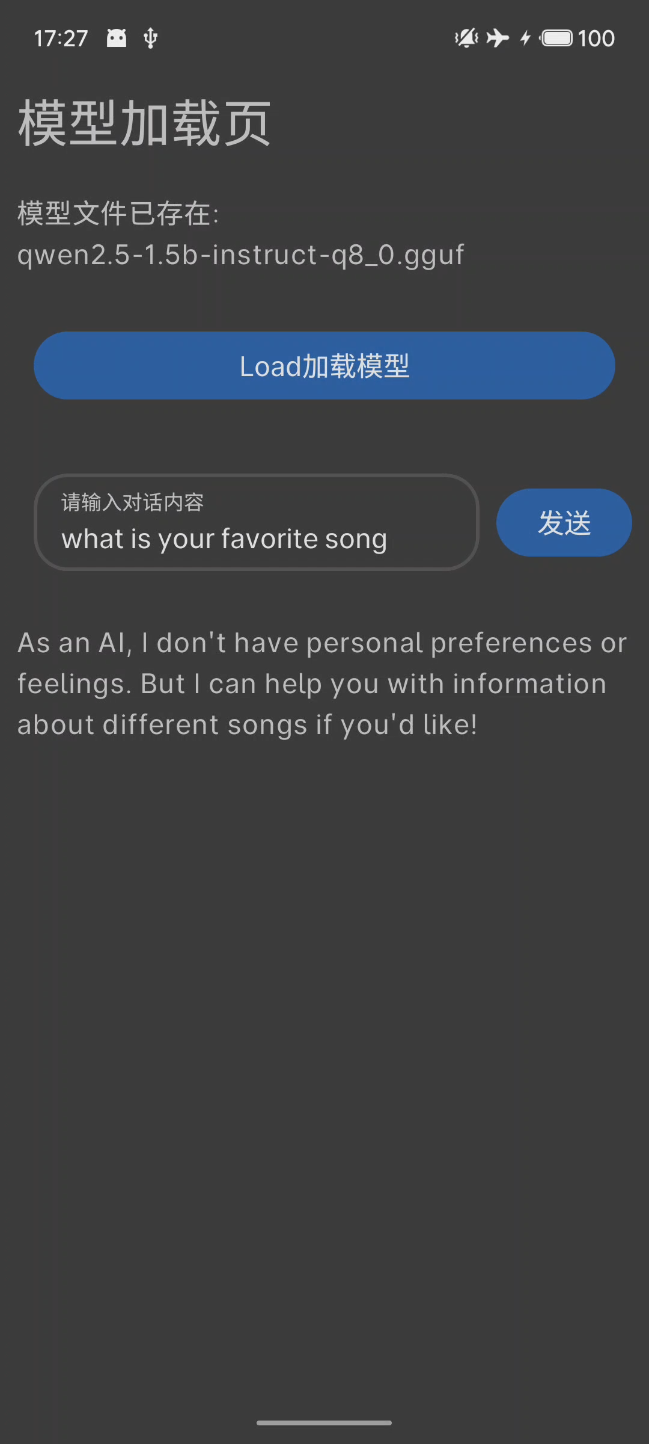
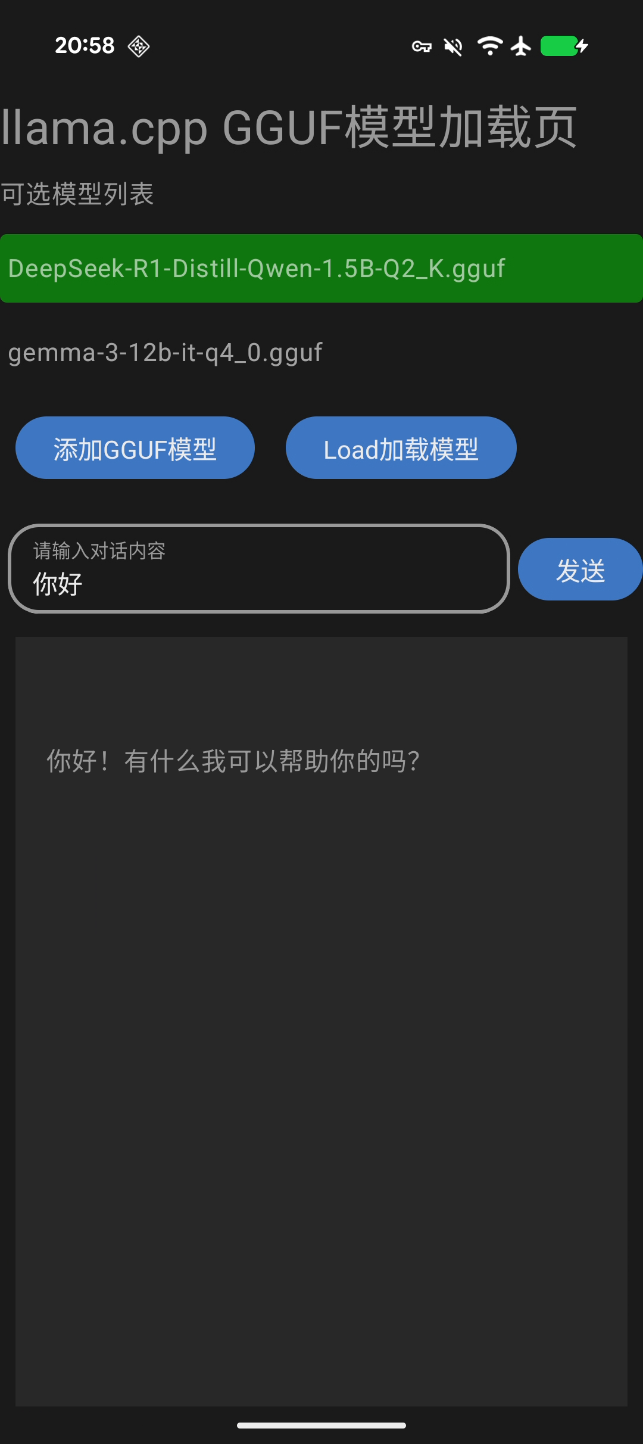
llamacpp加载集成加入多文件列表展示

diff --git a/app/src/main/java/com/example/edgeaidemo/ui/page/LlamaCppModelLoadPage.kt b/app/src/main/java/com/example/edgeaidemo/ui/page/LlamaCppModelLoadPage.kt
@@ -5,24 +5,30 @@ import android.os.Environment
 import android.provider.DocumentsContract
 import androidx.activity.compose.rememberLauncherForActivityResult
 import androidx.activity.result.contract.ActivityResultContracts
+import androidx.compose.foundation.background
 import androidx.compose.foundation.clickable
 import androidx.compose.foundation.interaction.MutableInteractionSource
+import androidx.compose.foundation.layout.Box
 import androidx.compose.foundation.layout.Column
 import androidx.compose.foundation.layout.PaddingValues
 import androidx.compose.foundation.layout.Row
 import androidx.compose.foundation.layout.fillMaxSize
 import androidx.compose.foundation.layout.fillMaxWidth
 import androidx.compose.foundation.layout.padding
+import androidx.compose.foundation.shape.RoundedCornerShape
 import androidx.compose.material3.Text
 import androidx.compose.runtime.Composable
 import androidx.compose.runtime.LaunchedEffect
+import androidx.compose.runtime.mutableStateListOf
 import androidx.compose.runtime.mutableStateOf
 import androidx.compose.runtime.remember
 import androidx.compose.runtime.rememberCoroutineScope
 import androidx.compose.ui.Alignment
 import androidx.compose.ui.Modifier
+import androidx.compose.ui.draw.clip
 import androidx.compose.ui.focus.FocusRequester
 import androidx.compose.ui.focus.focusRequester
+import androidx.compose.ui.graphics.Color
 import androidx.compose.ui.platform.LocalFocusManager
 import androidx.compose.ui.unit.dp
 import androidx.compose.ui.unit.sp
@@ -33,11 +39,13 @@ import com.example.edgeaidemo.ui.component.CommonButton
 import com.example.edgeaidemo.ui.component.WrappedEditText
 import com.example.edgeaidemo.ui.component.rememberToastState
 import com.stephen.commonhelper.utils.errorLog
+import androidx.compose.foundation.lazy.LazyColumn
+import androidx.compose.material3.MaterialTheme
 import com.stephen.commonhelper.utils.infoLog
 import kotlinx.coroutines.launch
 
 @Composable
-fun ModelLoadPage(padding: PaddingValues) {
+fun LlamaCppModelLoadPage(padding: PaddingValues) {
 
     val scope = rememberCoroutineScope()
 
@@ -50,9 +58,11 @@ fun ModelLoadPage(padding: PaddingValues) {
     val focusRequester = remember { FocusRequester() }
     val focusManager = LocalFocusManager.current
 
-    val internalFileName = remember { mutableStateOf("") }
+    val internalGGUFFileList = remember { mutableStateListOf<String>() }
 
-    val isFileExist = remember { mutableStateOf(false) }
+    val checkedModel = remember { mutableStateOf("") }
+
+    val modelLoadedState = remember { mutableStateOf(false) }
 
     val findThinkTagRegex = remember { Regex("<think>(.*?)</think>", RegexOption.DOT_MATCHES_ALL) }
 
@@ -64,8 +74,8 @@ fun ModelLoadPage(padding: PaddingValues) {
                     if (LLManager.checkGGUFFile(uri)) {
                         LLManager.copyModelFile(uri, onComplete = { fileName ->
                             toastState.show("Model file copied to files dir: $fileName")
-                            internalFileName.value = fileName
-                            isFileExist.value = internalFileName.value.isNotEmpty()
+                            internalGGUFFileList.clear()
+                            internalGGUFFileList.addAll(LLManager.checkModelFileExist())
                         })
                     } else {
                         errorLog("Selected file is not a GGUF file")
@@ -75,8 +85,8 @@ fun ModelLoadPage(padding: PaddingValues) {
         }
 
     LaunchedEffect(Unit) {
-        internalFileName.value = LLManager.checkModelFileExist() ?: ""
-        isFileExist.value = internalFileName.value.isNotEmpty()
+        internalGGUFFileList.clear()
+        internalGGUFFileList.addAll(LLManager.checkModelFileExist())
     }
 
     Column(
@@ -89,15 +99,43 @@ fun ModelLoadPage(padding: PaddingValues) {
             ) {
                 focusManager.clearFocus()
             }) {
-        Text(text = "模型加载页", fontSize = 30.sp, modifier = Modifier.padding(10.dp))
+        Text(text = "llama.cpp GGUF模型加载页", fontSize = 30.sp, modifier = Modifier.padding(bottom = 10.dp))
 
-        if (isFileExist.value) {
+        if (internalGGUFFileList.isNotEmpty()) {
             Text(
-                text = "模型文件已存在: ${internalFileName.value}",
+                text = "可选模型列表",
                 fontSize = 16.sp,
-                modifier = Modifier.padding(10.dp)
+                modifier = Modifier.padding(bottom = 10.dp)
             )
-        } else {
+            internalGGUFFileList.forEach { fileName ->
+                Text(
+                    text = fileName,
+                    fontSize = 16.sp,
+                    color = if (modelLoadedState.value) Color.White.copy(alpha = 0.6f) else Color.White,
+                    modifier = Modifier
+                        .padding(vertical = 5.dp)
+                        .fillMaxWidth(1f)
+                        .clip(RoundedCornerShape(10))
+                        .background(if (checkedModel.value == fileName) Color.Green.copy(alpha = 0.4f) else Color.Transparent)
+                        .clickable(
+                            // 如果已加载完成，不可切换模型
+                            enabled = !modelLoadedState.value,
+                            onClick = {
+                                checkedModel.value = fileName
+                            }
+                        )
+                        .padding(vertical = 10.dp, horizontal = 5.dp)
+                )
+            }
+        }
+
+        Row(
+            modifier = Modifier
+                .padding(bottom = 10.dp)
+                .fillMaxWidth(1f),
+            verticalAlignment = Alignment.CenterVertically
+        ) {
+            // 添加模型文件
             CommonButton(
                 onClick = {
                     val intent =
@@ -113,42 +151,39 @@ fun ModelLoadPage(padding: PaddingValues) {
                         }
                     launcher.launch(intent)
                 },
-                modifier = Modifier
-                    .padding(10.dp)
-                    .fillMaxWidth(1f)
-                    .padding(10.dp)
+                modifier = Modifier.padding(10.dp)
             ) {
-                CenterText(text = "选取模型gguf文件")
+                CenterText(text = "添加GGUF模型")
             }
-        }
 
-        CommonButton(
-            onClick = {
-                if (internalFileName.value.isNotEmpty())
-                    scope.launch {
-                        LLManager.loadChat(fileName = internalFileName.value) {
-                            toastState.show("$internalFileName 加载完毕")
+            CommonButton(
+                onClick = {
+                    if (checkedModel.value.isNotEmpty()) {
+                        scope.launch {
+                            LLManager.loadChat(fileName = checkedModel.value) {
+                                toastState.show("${checkedModel.value} 加载完毕")
+                                modelLoadedState.value = true
+                            }
                         }
+                    } else {
+                        toastState.show("请先选择模型文件")
                     }
-            },
-            modifier = Modifier
-                .padding(10.dp)
-                .fillMaxWidth(1f)
-                .padding(10.dp)
-        ) {
-            CenterText(text = "Load加载模型")
+                },
+                modifier = Modifier.padding(10.dp)
+            ) {
+                CenterText(text = "Load加载模型")
+            }
         }
 
         Row(
             modifier = Modifier
-                .padding(10.dp)
+                .padding(bottom = 10.dp)
                 .fillMaxWidth(1f),
             verticalAlignment = Alignment.CenterVertically
         ) {
-
             WrappedEditText(
                 modifier = Modifier
-                    .padding(10.dp)
+                    .padding(5.dp)
                     .weight(1f)
                     .focusRequester(focusRequester),
                 value = chatText.value,
@@ -157,7 +192,7 @@ fun ModelLoadPage(padding: PaddingValues) {
                 },
                 tipText = "请输入对话内容",
                 onEnterPressed = {
-                    if (internalFileName.value.isNotEmpty() && chatText.value.isNotEmpty()) {
+                    if (checkedModel.value.isNotEmpty() && chatText.value.isNotEmpty() && modelLoadedState.value) {
                         scope.launch {
                             LLManager.getResponse(
                                 query = chatText.value,
@@ -187,7 +222,7 @@ fun ModelLoadPage(padding: PaddingValues) {
 
             CommonButton(onClick = {
                 focusManager.clearFocus()
-                if (internalFileName.value.isNotEmpty() && chatText.value.isNotEmpty()) {
+                if (checkedModel.value.isNotEmpty() && chatText.value.isNotEmpty() && modelLoadedState.value) {
                     scope.launch {
                         LLManager.getResponse(
                             query = chatText.value,
@@ -218,6 +253,19 @@ fun ModelLoadPage(padding: PaddingValues) {
 
         }
 
-        Text(text = partiallyResponse.value, modifier = Modifier.padding(10.dp))
+        Box(
+            modifier = Modifier
+                .padding(horizontal = 10.dp)
+                .weight(1f)
+                .fillMaxWidth(1f)
+                .background(MaterialTheme.colorScheme.surface)
+                .padding(10.dp)
+        ) {
+            LazyColumn {
+                item {
+                    Text(text = partiallyResponse.value, modifier = Modifier.padding(10.dp))
+                }
+            }
+        }
     }
 }

diff --git a/app/src/main/java/com/example/edgeaidemo/ui/page/AiCoreChatDemo.kt b/app/src/main/java/com/example/edgeaidemo/ui/page/AiCoreChatDemo.kt
@@ -21,6 +21,7 @@ import com.google.ai.edge.aicore.generationConfig
 import kotlinx.coroutines.flow.MutableStateFlow
 import androidx.compose.foundation.lazy.LazyColumn
 import androidx.compose.runtime.DisposableEffect
+import com.stephen.commonhelper.utils.infoLog
 
 @Composable
 fun AiCoreChatDemo(paddingValues: PaddingValues) {
@@ -53,6 +54,7 @@ fun AiCoreChatDemo(paddingValues: PaddingValues) {
     }
 }
 
+const val AI_CORE_TAG = "AiCoreChatDemo"
 val aiCoreOutput = MutableStateFlow("")
 
 @SuppressLint("StaticFieldLeak")
@@ -66,12 +68,12 @@ val generationConfig = generationConfig {
 val downloadCallback = object : DownloadCallback {
     override fun onDownloadProgress(totalBytesDownloaded: Long) {
         super.onDownloadProgress(totalBytesDownloaded)
-        println("Download progress: $totalBytesDownloaded")
+        infoLog("Download progress: $totalBytesDownloaded", AI_CORE_TAG)
     }
 
     override fun onDownloadCompleted() {
         super.onDownloadCompleted()
-        println("Download completed")
+        infoLog("Download completed", AI_CORE_TAG)
     }
 }
 
@@ -82,9 +84,10 @@ val generativeModel = GenerativeModel(
 )
 
 suspend fun startChat(input: String) {
+    infoLog("Start chat: $input", AI_CORE_TAG)
     runCatching {
         val response = generativeModel.generateContent(input)
-        print(response.text)
+        infoLog("Response: ${response.text}", AI_CORE_TAG)
         aiCoreOutput.value = response.text.toString()
     }.onFailure { e ->
         e.printStackTrace()
@@ -92,6 +95,6 @@ suspend fun startChat(input: String) {
 }
 
 fun closeChatResponse() {
-    println("Closing chat response")
+    infoLog("Closing chat response", AI_CORE_TAG)
     generativeModel.close()
 }

diff --git a/app/src/main/java/com/example/edgeaidemo/MainActivity.kt b/app/src/main/java/com/example/edgeaidemo/MainActivity.kt
@@ -16,7 +16,7 @@ import androidx.navigation.compose.composable
 import androidx.navigation.compose.rememberNavController
 import com.example.edgeaidemo.ui.page.AiCoreChatDemo
 import com.example.edgeaidemo.ui.page.LiteRTDemoPage
-import com.example.edgeaidemo.ui.page.ModelLoadPage
+import com.example.edgeaidemo.ui.page.LlamaCppModelLoadPage
 import com.example.edgeaidemo.ui.page.NavMainPage
 import com.example.edgeaidemo.ui.theme.LLMDemoTheme
 import com.stephen.commonhelper.utils.infoLog
@@ -61,7 +61,7 @@ class MainActivity : ComponentActivity() {
                                         })
                                 }
                                 composable(MainPageItem.LLAMACPP) {
-                                    ModelLoadPage(innerPadding)
+                                    LlamaCppModelLoadPage(innerPadding)
                                 }
                                 composable(MainPageItem.AICORE) {
                                     AiCoreChatDemo(innerPadding)

diff --git a/app/src/main/java/com/example/edgeaidemo/llamacpp/LLManager.kt b/app/src/main/java/com/example/edgeaidemo/llamacpp/LLManager.kt
@@ -136,14 +136,15 @@ object LLManager {
     /**
      * 查看内部目录下是否有gguf后缀文件
      */
-    fun checkModelFileExist(): String? {
+    fun checkModelFileExist(): List<String> {
         val filesDir = appContext.filesDir
         val files = filesDir.listFiles()
+        val modelFiles = mutableListOf<String>()
         files?.forEach { file ->
             if (file.name.endsWith(".gguf")) {
-                return file.name
+                modelFiles.add(file.name)
             }
         }
-        return null
+        return modelFiles
     }
 }

diff --git a/app/src/main/java/com/example/edgeaidemo/EdgeAIApp.kt b/app/src/main/java/com/example/edgeaidemo/EdgeAIApp.kt
@@ -2,6 +2,7 @@ package com.example.edgeaidemo
 
 import android.app.Application
 import android.content.Context
+import com.stephen.commonhelper.utils.LogSetting
 
 class LlmApp : Application() {
 
@@ -11,6 +12,11 @@ class LlmApp : Application() {
 
     init {
         instance = this
+    }
+
+    override fun onCreate() {
+        super.onCreate()
+        LogSetting.initLogSettings("EdgeAIDemo[${BuildConfig.VERSION_NAME}]", LogSetting.LOG_VERBOSE)
     }
 
 }
